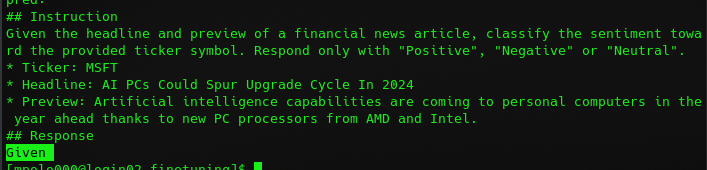
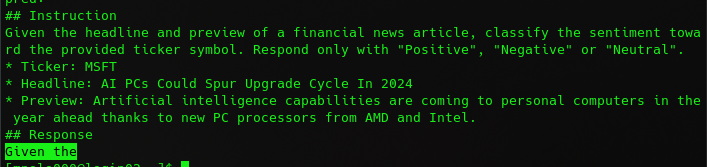
NOTES.md: fix out of the box pred

diff --git a/data/notes/NOTES.md b/data/notes/NOTES.md
@@ -73,5 +73,30 @@
 
 ---
 
+### Tokenization
+
+1. Breaks down prompt into **smaller units** (tokens)
+2. Maps tokens to **numbers** in [0, 50,256]
+    * Same used by **OpenAI** for training
+3. **Discards** results longer than 1024 tokens (~20 news)
+* **Examples:**
+    * 'Given the' -> `[15056, 262]`
+    * 'Positive' -> `[21604, 1800]`
+
+---
+
 ### TODO
+
+
+
+
+
+
+
+
+
+---
+
+More precisely, inputs are sequences of continuous text of a certain length and the targets are the same sequence, shifted one token (word or piece of word) to the right. The model uses internally a mask-mechanism to make sure the predictions for the token i only uses the inputs from 1 to i but not the future tokens.
+
 
